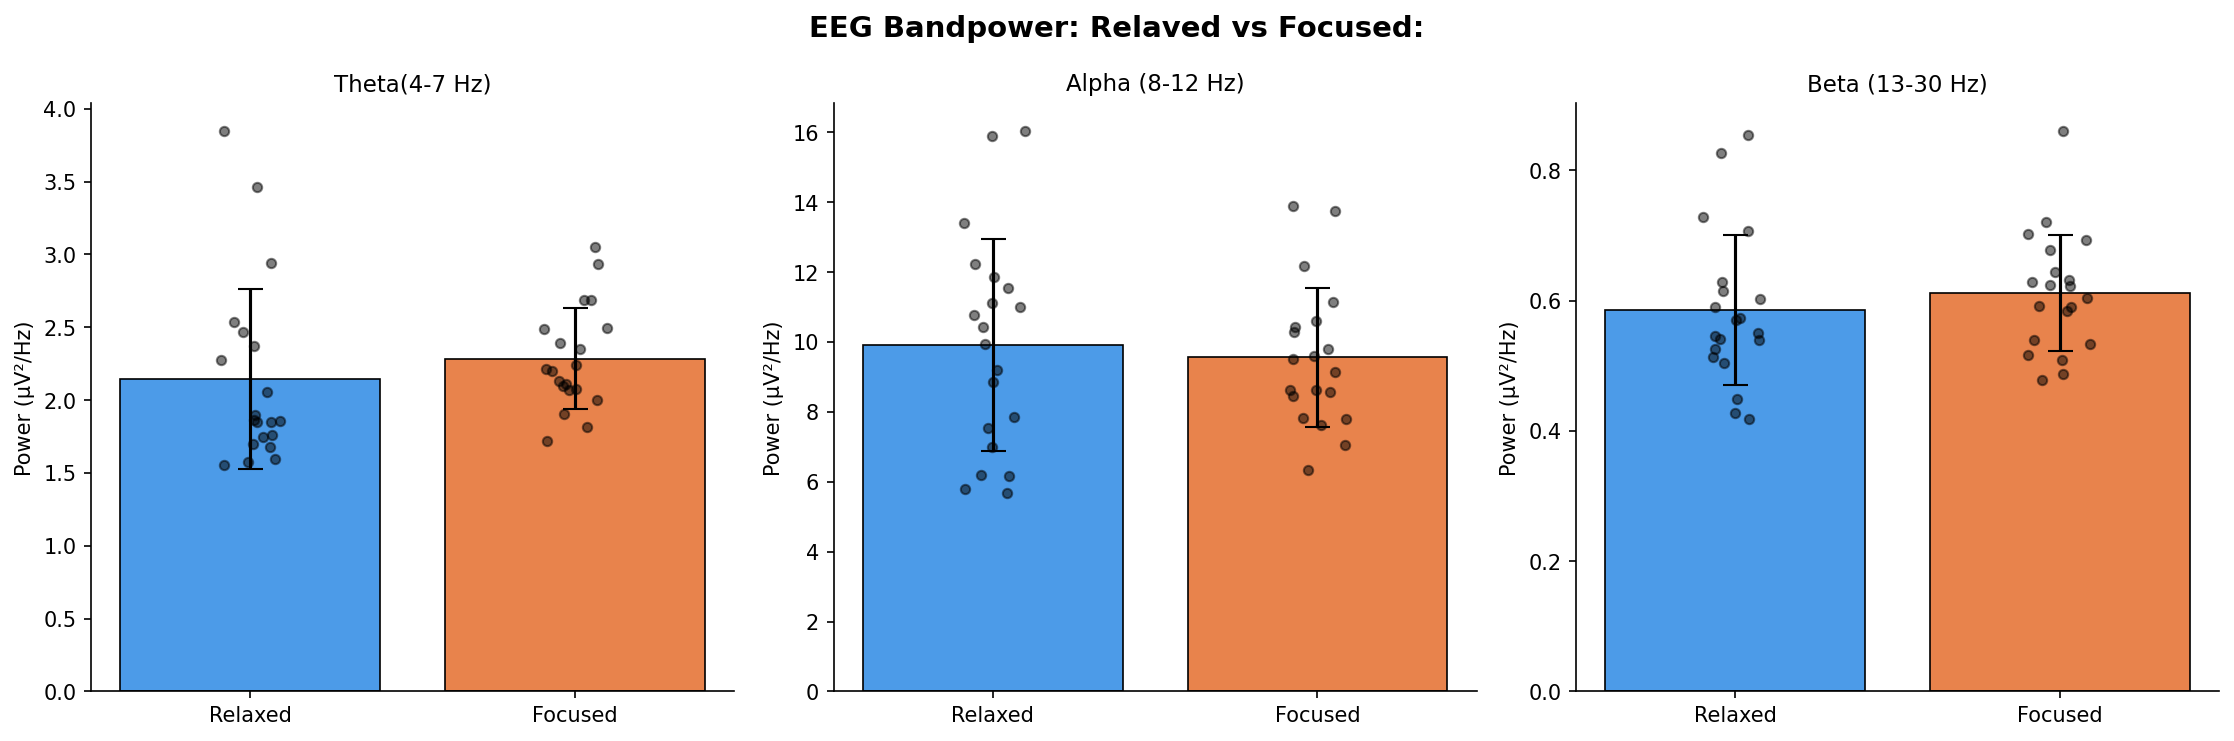
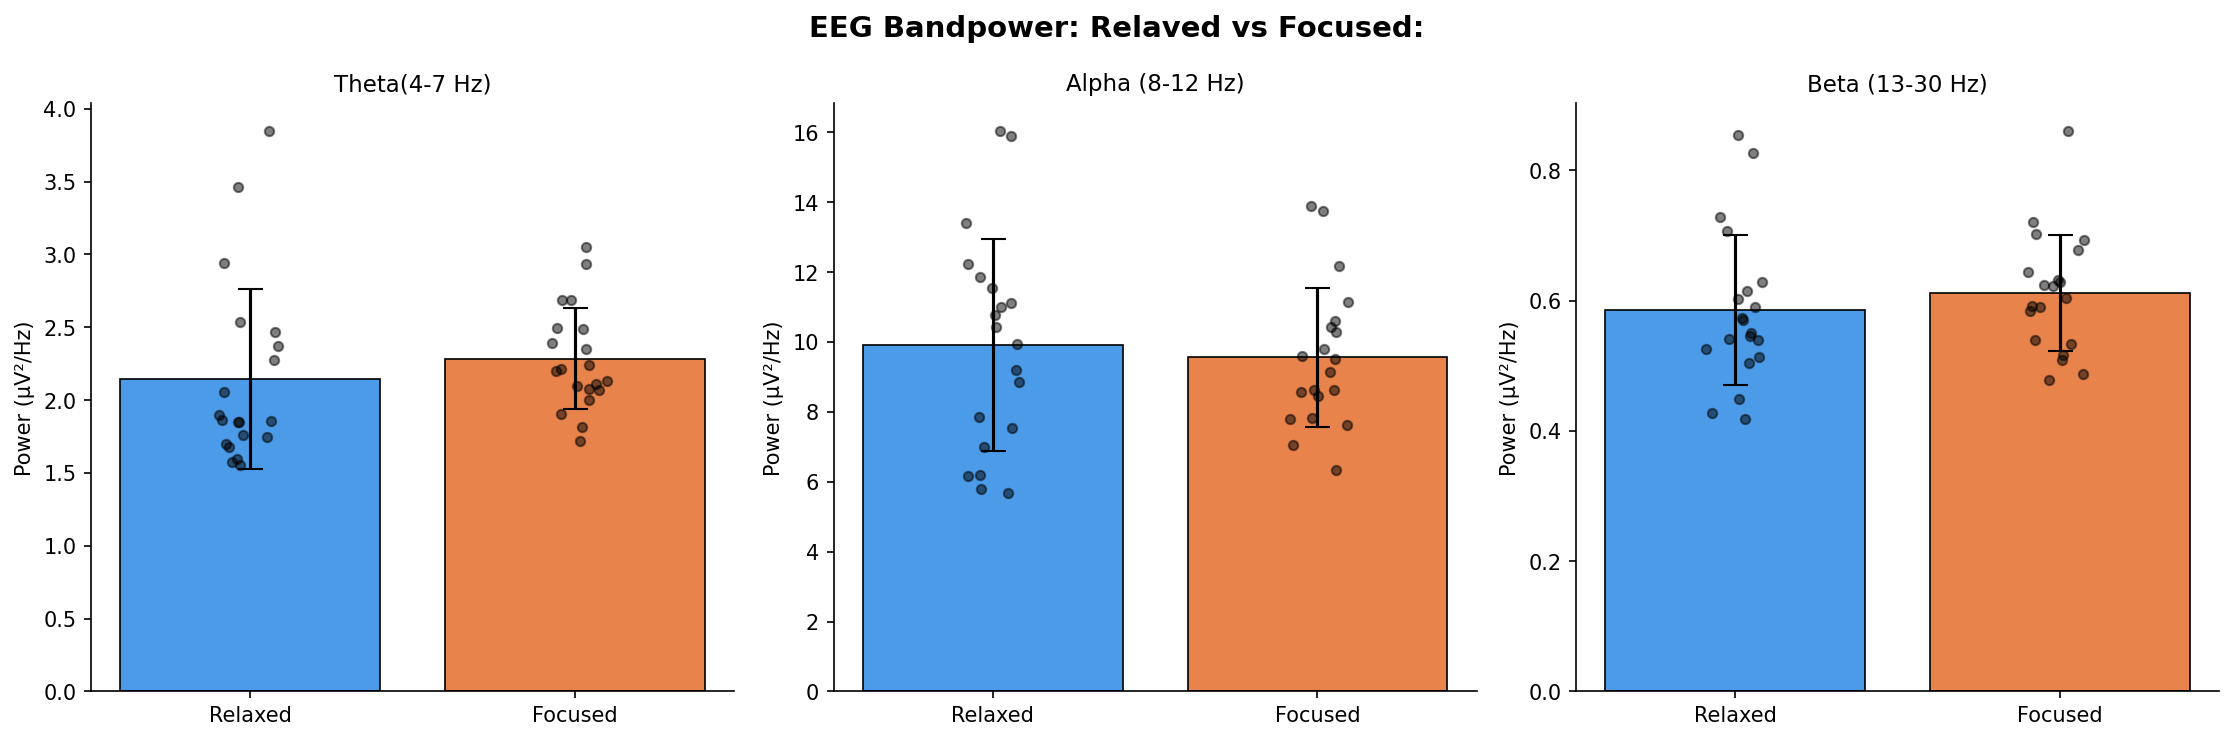
added a time series graph for alpha, beta, and theta as well as changed the trial duration from 10 to 8 seconds

diff --git a/analysis_mental_state.py b/analysis_mental_state.py
@@ -10,6 +10,8 @@ import numpy as np
 import matplotlib.pyplot as plt
 from scipy.signal import welch, butter, filtfilt, iirnotch
 import os
+import sys
+sys.stdout.reconfigure(encoding='utf-8')
 
 # ──────────────────────────────────────────────
 # CONFIGURATION
@@ -80,6 +82,70 @@ def extract_band_power(eeg_trials, labels, fs=SAMPLING_RATE):
 
     return results
 
+def plot_band_timeseries(eeg_trials, labels, fs=SAMPLING_RATE, window_s=1.0, step_s=0.25):
+    bands_to_plot = {
+        'Theta(4-7 Hz)':   BANDS['Theta(4-7 Hz)'],
+        'Alpha (8-12 Hz)': BANDS['Alpha (8-12 Hz)'],
+        'Beta (13-30 Hz)': BANDS['Beta (13-30 Hz)'],
+    }
+    colors = {'relaxed': '#4C9BE8', 'focused': '#E8834C'}
+
+    fig, axes = plt.subplots(1, 3, figsize=(18, 5))
+    fig.suptitle('EEG Band Power Over Time — Relaxed vs Focused', fontsize=14, fontweight='bold')
+
+    for ax, (band_name, (lo, hi)) in zip(axes, bands_to_plot.items()):
+        window_samp = int(window_s * fs)
+        step_samp   = int(step_s * fs)
+        plotted_labels = set()
+
+        def get_timeseries(trial):
+            times, powers = [], []
+            n_samples = trial.shape[1]
+            for start in range(0, n_samples - window_samp + 1, step_samp):
+                segment = trial[:, start:start + window_samp]
+                freqs, psd = welch(segment, fs=fs, nperseg=window_samp)
+                idx = (freqs >= lo) & (freqs <= hi)
+                powers.append(psd[:, idx].mean())
+                times.append((start + window_samp / 2) / fs)
+            return np.array(times), np.array(powers)
+
+        # Plot individual trial traces
+        for trial, label in zip(eeg_trials, labels):
+            trial = preprocess(trial, fs)
+            times, powers = get_timeseries(trial)
+            ax.plot(times, powers,
+                    color=colors[label], alpha=0.3,
+                    label=label if label not in plotted_labels else None)
+            plotted_labels.add(label)
+
+        # Plot per-condition mean
+        for label, color in colors.items():
+            trial_series = []
+            trial_times  = None
+            for trial, lbl in zip(eeg_trials, labels):
+                if lbl != label:
+                    continue
+                trial = preprocess(trial, fs)
+                times, powers = get_timeseries(trial)
+                trial_series.append(powers)
+                trial_times = times
+            if trial_series and trial_times is not None:
+                mean_power = np.mean(trial_series, axis=0)
+                ax.plot(trial_times, mean_power,
+                        color=color, linewidth=2.5,
+                        label=f'{label} (mean)')
+
+        ax.set_title(band_name, fontsize=11)
+        ax.set_xlabel('Time within trial (s)')
+        ax.set_ylabel('Power (uV^2/Hz)')
+        ax.legend()
+        ax.spines['top'].set_visible(False)
+        ax.spines['right'].set_visible(False)
+
+    plt.tight_layout()
+    plt.savefig('band_timeseries.png', dpi=150, bbox_inches='tight')
+    print("Time series plot saved to: band_timeseries.png")
+    plt.show()
 #------------
 # SUMMARY
 #------------
@@ -148,3 +214,4 @@ if __name__ == '__main__':
     results = extract_band_power(eeg_trials, labels)
     print_summary(results)
     plot_results(results)
+    plot_band_timeseries(eeg_trials, labels)

diff --git a/mental_state_collect.py b/mental_state_collect.py
@@ -15,7 +15,7 @@ RUN            = 1
 SAVE_DIR       = f'data/mental_state/sub-{SUBJECT:02d}/ses-{SESSION:02d}/'
 SAMPLING_RATE  = 250
 N_PER_CLASS    = 3 if MOCK_MODE else 20
-TRIAL_DURATION = 10.0
+TRIAL_DURATION = 8.0
 BASELINE_DUR   = 1.0 if MOCK_MODE else 2.0
 REST_BETWEEN   = 1.0 if MOCK_MODE else 3.0
 CLASSES        = ['relaxed', 'focused']
